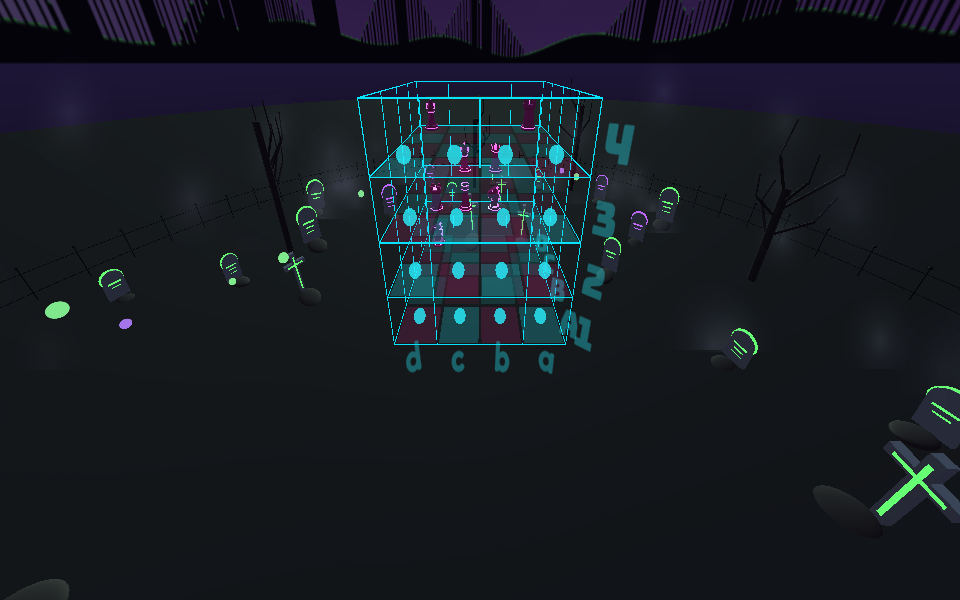
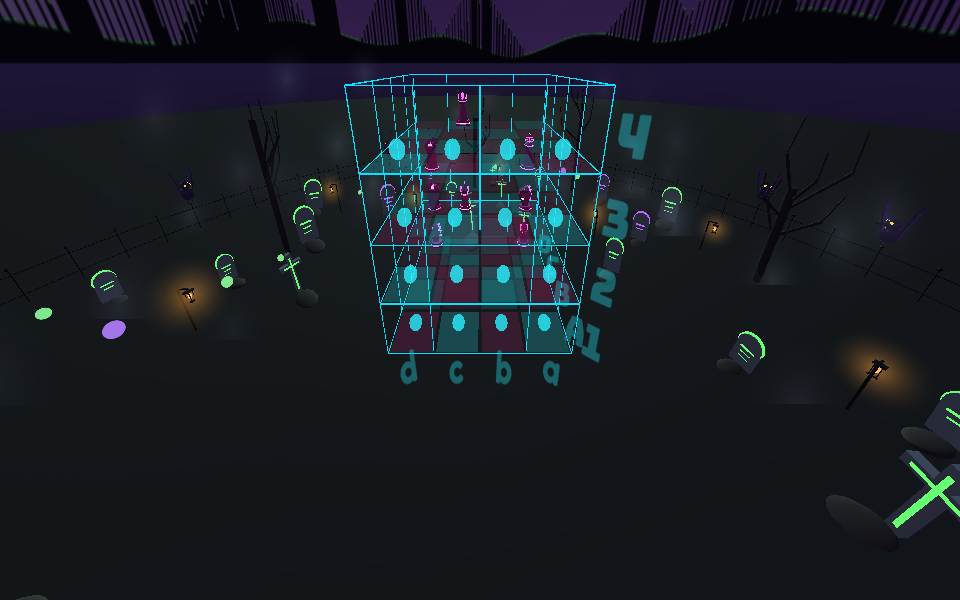
Graveyard: flickering lanterns among the graves and ravens on the fence that look about and fly between perches

diff --git a/Assets/Scripts/UI/Graveyard.cs b/Assets/Scripts/UI/Graveyard.cs
@@ -214,6 +214,8 @@ public static class GraveyardScenery
         root.gameObject.AddComponent<GraveMist>();
         root.gameObject.AddComponent<GraveWisps>();
         root.gameObject.AddComponent<GraveBats>();
+        root.gameObject.AddComponent<GraveLanterns>();
+        root.gameObject.AddComponent<GraveRavens>();
     }
 
     // A crooked trunk with a few forking branches
@@ -401,6 +403,206 @@ public class GraveBats : MonoBehaviour
             float flap = Mathf.Sin(t * 18f + b.phase) * 40f;
             b.l.localRotation = Quaternion.Euler(0f, 0f, flap);
             b.r.localRotation = Quaternion.Euler(0f, 0f, -flap);
+        }
+    }
+}
+
+/// <summary>Iron lantern posts among the graves, each with a warm flickering flame and glow</summary>
+public class GraveLanterns : MonoBehaviour
+{
+    private readonly List<(Material flame, Transform glow, float phase)> lanterns = new List<(Material, Transform, float)>();
+
+    private void Start()
+    {
+        var rng = new System.Random(808);
+        Material iron = OrbitScenery.Lit(new Color(0.08f, 0.07f, 0.08f), Color.black, 0.6f, 0.4f);
+        var glowMat = new Material(Shader.Find("Sprites/Default")) { mainTexture = Soft(), color = new Color(1f, 0.65f, 0.25f, 0.55f) };
+        int count = 14;
+        for (int i = 0; i < count; i++)
+        {
+            float a = (i + 0.5f + (float)rng.NextDouble() * 0.3f) / count * Mathf.PI * 2f;
+            float d = i % 2 == 0 ? 57f : 75f;   // between the rows of graves
+            Vector3 at = new Vector3(Mathf.Cos(a) * d, GraveyardScenery.GroundY, Mathf.Sin(a) * d);
+            var post = new GameObject("Lantern").transform;
+            post.SetParent(transform, false);
+            post.position = at;
+            post.rotation = Quaternion.Euler(0f, (float)rng.NextDouble() * 360f, 0f);
+            float h = 6f + (float)rng.NextDouble() * 2f;
+            OrbitScenery.Part(post, PrimitiveType.Cylinder, new Vector3(0f, h * 0.5f, 0f), new Vector3(0.3f, h * 0.5f, 0.3f), iron);
+            OrbitScenery.Part(post, PrimitiveType.Cube, new Vector3(0.8f, h, 0f), new Vector3(1.8f, 0.2f, 0.2f), iron);      // the arm
+            // The lantern hanging from the arm: a cage with a flame inside
+            Vector3 lamp = new Vector3(1.5f, h - 1.2f, 0f);
+            OrbitScenery.Part(post, PrimitiveType.Cube, lamp + Vector3.up * 0.75f, new Vector3(1.1f, 0.15f, 1.1f), iron);
+            OrbitScenery.Part(post, PrimitiveType.Cube, lamp - Vector3.up * 0.75f, new Vector3(0.9f, 0.15f, 0.9f), iron);
+            for (int c = 0; c < 4; c++)
+            {
+                float ca = c * Mathf.PI / 2f + Mathf.PI / 4f;
+                OrbitScenery.Part(post, PrimitiveType.Cube, lamp + new Vector3(Mathf.Cos(ca) * 0.45f, 0f, Mathf.Sin(ca) * 0.45f), new Vector3(0.08f, 1.5f, 0.08f), iron);
+            }
+            var flame = new Material(Shader.Find("Unlit/Color")) { color = new Color(1f, 0.75f, 0.35f) };
+            OrbitScenery.Part(post, PrimitiveType.Sphere, lamp, new Vector3(0.55f, 0.85f, 0.55f), flame);
+            var glow = GameObject.CreatePrimitive(PrimitiveType.Quad).transform;
+            Destroy(glow.GetComponent<Collider>());
+            glow.name = "Glow";
+            glow.SetParent(post, false);
+            glow.localPosition = lamp;
+            var gr = glow.GetComponent<MeshRenderer>();
+            gr.sharedMaterial = glowMat;
+            gr.shadowCastingMode = UnityEngine.Rendering.ShadowCastingMode.Off;
+            lanterns.Add((flame, glow, (float)rng.NextDouble() * 10f));
+        }
+    }
+
+    private void LateUpdate()
+    {
+        Camera cam = Camera.main;
+        float t = Time.time;
+        foreach (var l in lanterns)
+        {
+            // Candle flicker
+            float f = 0.85f + 0.1f * Mathf.Sin(t * 9f + l.phase) + 0.06f * Mathf.Sin(t * 23f + l.phase * 2f);
+            l.flame.color = new Color(1f, 0.6f + 0.2f * f, 0.25f + 0.15f * f);
+            l.glow.localScale = Vector3.one * 12f * f;
+            if (cam != null) l.glow.rotation = Quaternion.LookRotation(l.glow.position - cam.transform.position);
+        }
+    }
+
+    private static Texture2D Soft()
+    {
+        const int size = 64;
+        var tex = new Texture2D(size, size, TextureFormat.RGBA32, true) { wrapMode = TextureWrapMode.Clamp };
+        var px = new Color32[size * size];
+        for (int y = 0; y < size; y++)
+        for (int x = 0; x < size; x++)
+        {
+            float u = (x + 0.5f) / size * 2f - 1f, v = (y + 0.5f) / size * 2f - 1f;
+            px[y * size + x] = new Color(1f, 1f, 1f, Mathf.Pow(Mathf.Clamp01(1f - Mathf.Sqrt(u * u + v * v)), 2f));
+        }
+        tex.SetPixels32(px);
+        tex.Apply(true);
+        return tex;
+    }
+}
+
+/// <summary>
+/// Ravens perched on the iron fence and on gravestones. They turn their heads now and then,
+/// and every so often one flaps off, circles over the graves and lands on another perch.
+/// </summary>
+public class GraveRavens : MonoBehaviour
+{
+    private class Raven { public Transform body, head, wingL, wingR; public int perch; public float nextLook, flyStart = -1f; public Vector3 from, to; public Quaternion look; }
+    private readonly List<Raven> ravens = new List<Raven>();
+    private readonly List<(Vector3 pos, Vector3 face)> perches = new List<(Vector3, Vector3)>();
+    private readonly HashSet<int> taken = new HashSet<int>();
+    private float nextFlight;
+    private const float FlightTime = 5f;
+
+    private void Start()
+    {
+        var rng = new System.Random(4141);
+        // Perches: fence-post tops, all facing in toward the board
+        for (int i = 0; i < 90; i += 3)
+        {
+            float a = i / 90f * Mathf.PI * 2f;
+            Vector3 p = new Vector3(Mathf.Cos(a) * 100f, GraveyardScenery.GroundY + 6.6f, Mathf.Sin(a) * 100f);
+            perches.Add((p, -new Vector3(p.x, 0f, p.z).normalized));
+        }
+        Material feathers = OrbitScenery.Lit(new Color(0.07f, 0.06f, 0.1f), new Color(0.05f, 0.03f, 0.1f), 0.6f, 0.85f); // a violet sheen so they show against the dark
+        Material beak = OrbitScenery.Lit(new Color(0.12f, 0.11f, 0.1f), Color.black, 0.2f, 0.5f);
+        Material eye = new Material(Shader.Find("Unlit/Color")) { color = new Color(1f, 0.85f, 0.2f) };
+        for (int i = 0; i < 9; i++)
+        {
+            int perch;
+            do perch = rng.Next(perches.Count); while (taken.Contains(perch));
+            taken.Add(perch);
+            var r = new Raven { perch = perch, nextLook = Time.time + (float)rng.NextDouble() * 4f };
+            r.body = new GameObject("Raven").transform;
+            r.body.SetParent(transform, false);
+            r.body.localScale = Vector3.one * 4f; // big enough to read at the fence
+            OrbitScenery.Part(r.body, PrimitiveType.Sphere, new Vector3(0f, 0.55f, 0f), new Vector3(0.7f, 0.8f, 1.1f), feathers, Quaternion.Euler(-25f, 0f, 0f));
+            OrbitScenery.Part(r.body, PrimitiveType.Cube, new Vector3(0f, 0.3f, -0.75f), new Vector3(0.35f, 0.08f, 0.7f), feathers, Quaternion.Euler(30f, 0f, 0f)); // tail
+            OrbitScenery.Part(r.body, PrimitiveType.Cylinder, new Vector3(0.12f, 0.1f, 0.05f), new Vector3(0.05f, 0.12f, 0.05f), beak); // legs
+            OrbitScenery.Part(r.body, PrimitiveType.Cylinder, new Vector3(-0.12f, 0.1f, 0.05f), new Vector3(0.05f, 0.12f, 0.05f), beak);
+            r.head = new GameObject("Head").transform;
+            r.head.SetParent(r.body, false);
+            r.head.localPosition = new Vector3(0f, 1.05f, 0.35f);
+            OrbitScenery.Part(r.head, PrimitiveType.Sphere, Vector3.zero, Vector3.one * 0.5f, feathers);
+            OrbitScenery.Part(r.head, PrimitiveType.Cube, new Vector3(0f, -0.05f, 0.35f), new Vector3(0.12f, 0.12f, 0.4f), beak, Quaternion.Euler(10f, 45f, 0f));
+            OrbitScenery.Part(r.head, PrimitiveType.Sphere, new Vector3(0.17f, 0.07f, 0.15f), Vector3.one * 0.12f, eye);
+            OrbitScenery.Part(r.head, PrimitiveType.Sphere, new Vector3(-0.17f, 0.07f, 0.15f), Vector3.one * 0.12f, eye);
+            Transform Wing(float side)
+            {
+                var pivot = new GameObject("Wing").transform;
+                pivot.SetParent(r.body, false);
+                pivot.localPosition = new Vector3(side * 0.3f, 0.7f, 0f);
+                OrbitScenery.Part(pivot, PrimitiveType.Cube, new Vector3(side * 0.6f, 0f, -0.1f), new Vector3(1.2f, 0.05f, 0.7f), feathers);
+                return pivot;
+            }
+            r.wingL = Wing(-1f);
+            r.wingR = Wing(1f);
+            r.look = Quaternion.identity;
+            ravens.Add(r);
+            Perch(r);
+        }
+        nextFlight = Time.time + 5f;
+    }
+
+    private void Perch(Raven r)
+    {
+        var p = perches[r.perch];
+        r.body.position = p.pos;
+        r.body.rotation = Quaternion.LookRotation(p.face);
+        // Wings folded along the body
+        r.wingL.localRotation = Quaternion.Euler(0f, 0f, -80f) * Quaternion.Euler(0f, 20f, 0f);
+        r.wingR.localRotation = Quaternion.Euler(0f, 0f, 80f) * Quaternion.Euler(0f, -20f, 0f);
+    }
+
+    private void Update()
+    {
+        float t = Time.time;
+        // Every so often one raven takes off for another perch
+        if (t >= nextFlight)
+        {
+            nextFlight = t + Random.Range(6f, 14f);
+            Raven r = ravens[Random.Range(0, ravens.Count)];
+            if (r.flyStart < 0f)
+            {
+                int to;
+                do to = Random.Range(0, perches.Count); while (taken.Contains(to));
+                taken.Remove(r.perch);
+                taken.Add(to);
+                r.from = perches[r.perch].pos;
+                r.to = perches[to].pos;
+                r.perch = to;
+                r.flyStart = t;
+            }
+        }
+
+        foreach (Raven r in ravens)
+        {
+            if (r.flyStart >= 0f)
+            {
+                float k = (t - r.flyStart) / FlightTime;
+                if (k >= 1f) { r.flyStart = -1f; Perch(r); continue; }
+                // Up over the graves in an arc, then down onto the new perch
+                Vector3 mid = new Vector3((r.from.x + r.to.x) * 0.3f, GraveyardScenery.GroundY + 32f, (r.from.z + r.to.z) * 0.3f);
+                Vector3 a = Vector3.Lerp(r.from, mid, k), b = Vector3.Lerp(mid, r.to, k);
+                Vector3 pos = Vector3.Lerp(a, b, k);
+                Vector3 ahead = Vector3.Lerp(Vector3.Lerp(r.from, mid, k + 0.01f), Vector3.Lerp(mid, r.to, k + 0.01f), k + 0.01f);
+                r.body.position = pos;
+                if ((ahead - pos).sqrMagnitude > 0.0001f) r.body.rotation = Quaternion.LookRotation(ahead - pos);
+                float flap = Mathf.Sin(t * 16f) * 45f * (k < 0.85f ? 1f : (1f - k) / 0.15f);
+                r.wingL.localRotation = Quaternion.Euler(0f, 0f, flap);
+                r.wingR.localRotation = Quaternion.Euler(0f, 0f, -flap);
+                continue;
+            }
+            // Perched: now and then turn the head to look about
+            if (t >= r.nextLook)
+            {
+                r.nextLook = t + Random.Range(1.5f, 4f);
+                r.look = Quaternion.Euler(Random.Range(-15f, 20f), Random.Range(-70f, 70f), Random.Range(-15f, 15f));
+            }
+            r.head.localRotation = Quaternion.Slerp(r.head.localRotation, r.look, Time.deltaTime * 8f);
         }
     }
 }

diff --git a/Assets/Scripts/UI/Backdrops.cs b/Assets/Scripts/UI/Backdrops.cs
@@ -67,7 +67,7 @@ public static class Backdrops
             case Kind.MeltingClocks: return "A dreamy golden dusk where soft clocks droop from branches and drift past the board";
             case Kind.EarthOrbit: return "Low orbit above the turning Earth, with the planets, passing comets and satellites whizzing by";
             case Kind.DeepSea: return "Dark open water full of fish that sometimes eat each other. Watch out for the tentacle";
-            case Kind.Graveyard: return "A moonlit cemetery with glowing tombstones, creeping mist, will-o'-wisps and bats";
+            case Kind.Graveyard: return "A moonlit cemetery with glowing tombstones, lanterns, ravens, mist, will-o'-wisps and bats";
             default: return "Clean violet glow, easy on the eyes";
         }
     }
